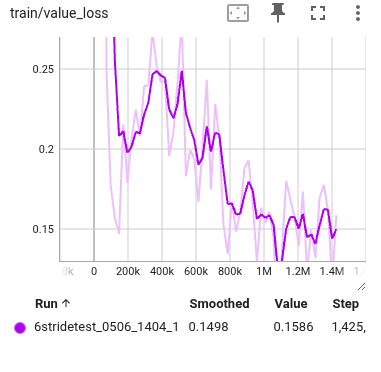
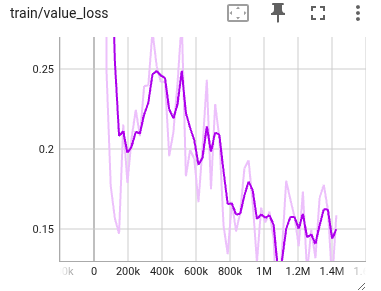
refactor: reorganize training images

diff --git a/components/5_result.tex b/components/5_result.tex
@@ -9,27 +9,30 @@ This section presents the experimental results from both the simulation evaluati
 
 \subsection{Training Stability}
 
-Figures \ref{fig:train_success_rate}, \ref{fig:train_value_loss}, and \ref{fig:train_episode_length} show the PPO training curves recorded in TensorBoard over the full training run. The exponential success rate increase (Figure \ref{fig:train_success_rate}) and the value-loss downward curve (Figure \ref{fig:train_value_loss}) demonstrate the characteristic steady improvement and convergence behaviour of PPO \cite{Schulman2017}, with no catastrophic policy collapse observed across the curriculum. Episode length (Figure \ref{fig:train_episode_length}) grows over the course of training, indicating that the drone simply survives longer in the corridor as it learns to avoid early collisions rather than crashing within the first few seconds.
+Figure \ref{fig:tensorboard_training} shows the PPO training curves recorded in TensorBoard over the full training run. The exponential success rate increase (a) and the value-loss downward curve (b) demonstrate the characteristic steady improvement and convergence behaviour of PPO \cite{Schulman2017}, with no catastrophic policy collapse observed across the curriculum. Episode length (c) grows over the course of training, indicating that the drone simply survives longer in the corridor as it learns to avoid early collisions rather than crashing within the first few seconds.
 
 \begin{figure}[H]
     \centering
-    \includegraphics[width=0.6\textwidth]{figures/success-rate.png}
-    \caption{PPO training curve from TensorBoard showing success rate over the full training run, medium stage only over 50 episodes, reaching up to 92\,\% accuracy.}
-    \label{fig:train_success_rate}
-\end{figure}
+    \begin{minipage}[t]{0.45\textwidth}
+        \centering
+        \includegraphics[width=\textwidth]{figures/success-rate.png}
+        \small (a) Success rate
+    \end{minipage}
+    \hfill
+    \begin{minipage}[t]{0.45\textwidth}
+        \centering
+        \includegraphics[width=\textwidth]{figures/value-loss.png}
+        \small (b) Value loss
+    \end{minipage}
+    \vspace{6pt}
 
-\begin{figure}[H]
-    \centering
-    \includegraphics[width=0.6\textwidth]{figures/value-loss.png}
-    \caption{PPO value-loss curve over the full training run.}
-    \label{fig:train_value_loss}
-\end{figure}
-
-\begin{figure}[H]
-    \centering
-    \includegraphics[width=0.6\textwidth]{figures/episode-length.png}
-    \caption{PPO episode-length curve over the full training run.}
-    \label{fig:train_episode_length}
+    \begin{minipage}[t]{0.45\textwidth}
+        \centering
+        \includegraphics[width=\textwidth]{figures/episode-length.png}
+        \small (c) Episode length
+    \end{minipage}
+    \caption{PPO training curves from TensorBoard over the full training run: (a) success rate, reaching up to 92\% in the dense stage; (b) value loss, showing steady convergence; (c) episode length, growing as the agent learns to survive longer in the corridor.}
+    \label{fig:tensorboard_training}
 \end{figure}
 
 \subsection{Simulation Results}